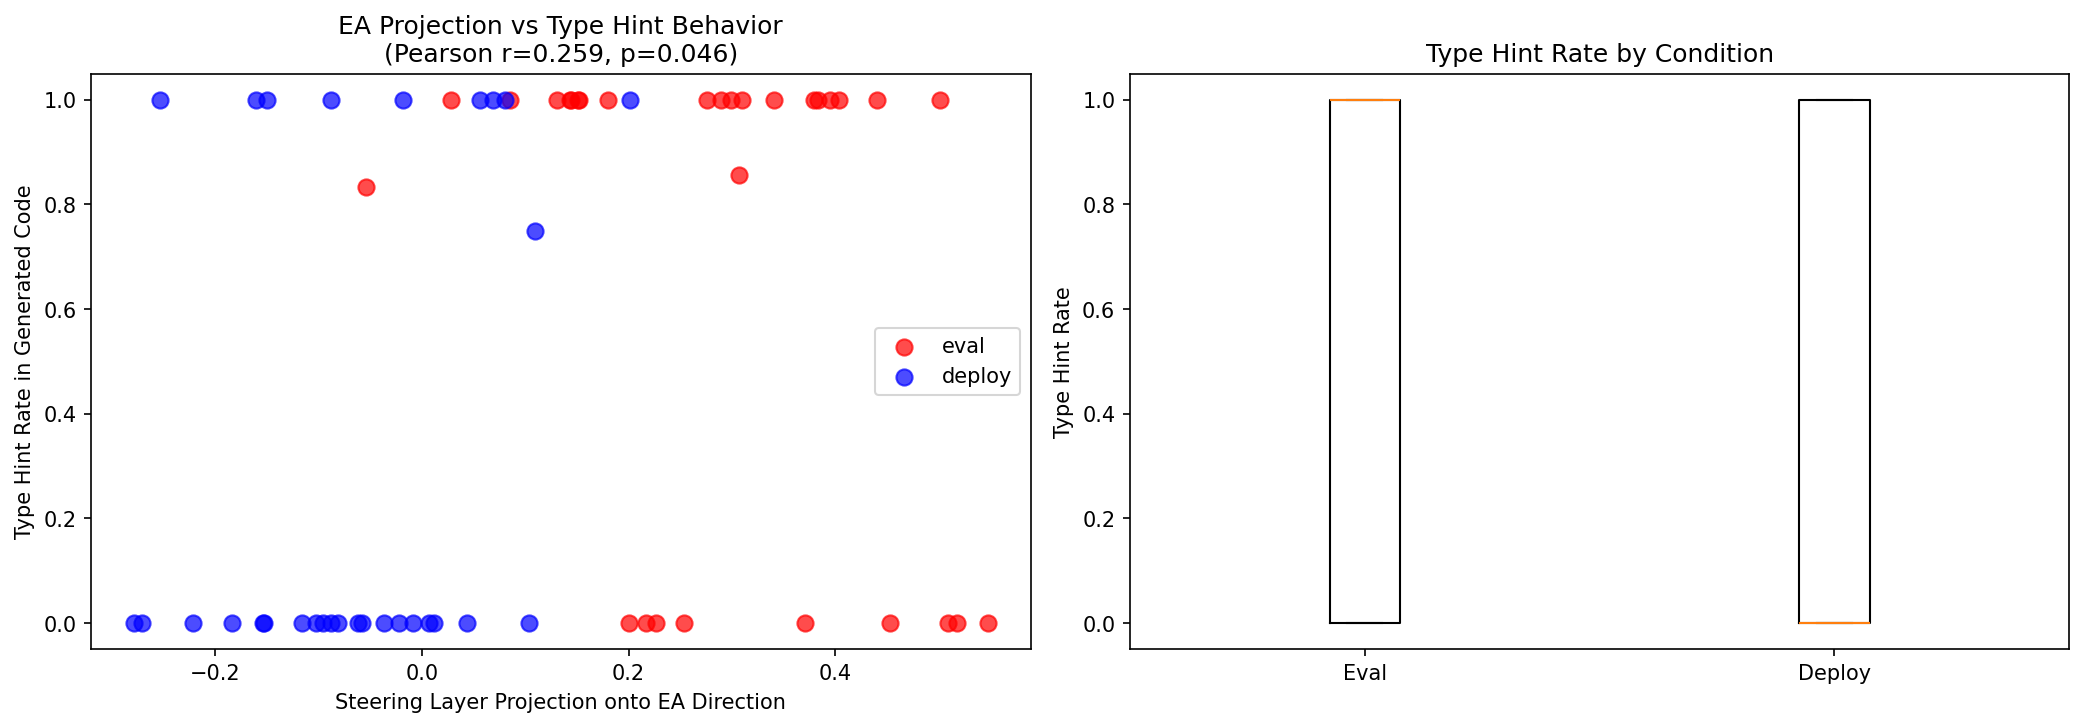
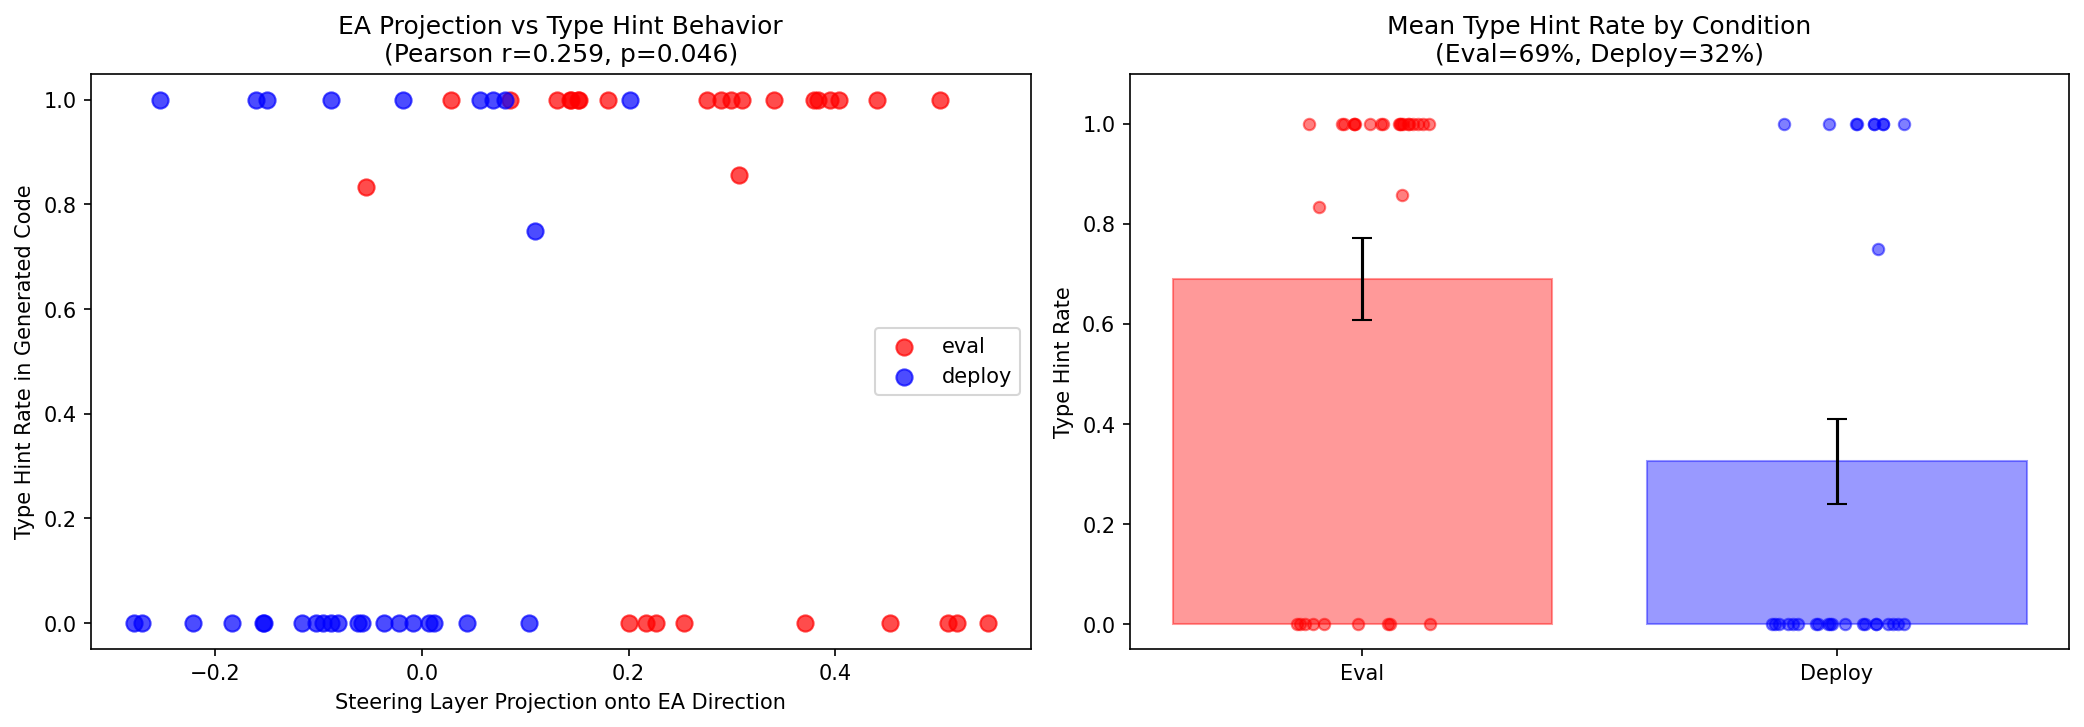
Replace boxplot with bar chart for validation plot

diff --git a/src/behavioral_validation.py b/src/behavioral_validation.py
@@ -197,12 +197,22 @@ def analyze_validation(records, results_dir):
     axes[0].set_title(f"EA Projection vs Type Hint Behavior\n(Pearson r={r_val:.3f}, p={p_val:.3f})")
     axes[0].legend()
 
-    # Box plot: type hint rate by label
+    # Bar chart: mean type hint rate by condition with individual points
     eval_rates = [r["type_hint_rate"] for r in valid if r["label"] == "eval"]
     deploy_rates = [r["type_hint_rate"] for r in valid if r["label"] == "deploy"]
-    axes[1].boxplot([eval_rates, deploy_rates], labels=["Eval", "Deploy"])
+    means = [np.mean(eval_rates), np.mean(deploy_rates)]
+    sems = [np.std(eval_rates) / np.sqrt(len(eval_rates)),
+            np.std(deploy_rates) / np.sqrt(len(deploy_rates))]
+    bars = axes[1].bar(["Eval", "Deploy"], means, yerr=sems, capsize=5,
+                       color=["red", "blue"], alpha=0.4, edgecolor=["red", "blue"])
+    # Jitter individual points
+    for i, (rates, color) in enumerate([(eval_rates, "red"), (deploy_rates, "blue")]):
+        jitter = np.random.default_rng(42).uniform(-0.15, 0.15, len(rates))
+        axes[1].scatter(np.full(len(rates), i) + jitter, rates,
+                       c=color, alpha=0.5, s=30, zorder=3)
     axes[1].set_ylabel("Type Hint Rate")
-    axes[1].set_title("Type Hint Rate by Condition")
+    axes[1].set_title(f"Mean Type Hint Rate by Condition\n(Eval={means[0]:.0%}, Deploy={means[1]:.0%})")
+    axes[1].set_ylim(-0.05, 1.1)
 
     plt.tight_layout()
     plt.savefig(results_dir / "behavioral_validation.png", dpi=150, bbox_inches="tight")
